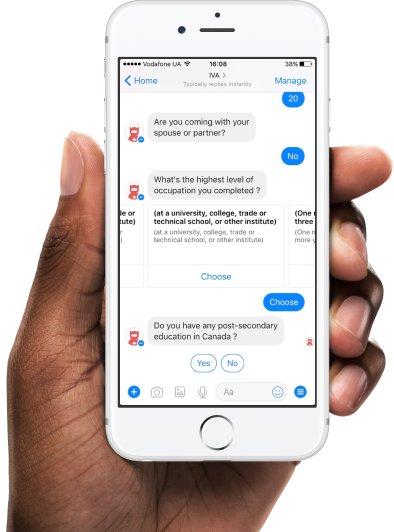
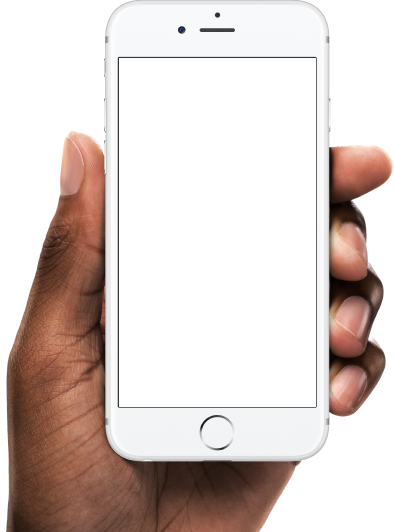
testing mobile bg, updated bg img for video

diff --git a/css/style.css b/css/style.css
@@ -408,13 +408,13 @@ a:active {
 
 .bot-video {
     width: 197px;
-    height: 349px;
+    height: 350px;
     position: absolute;
     top: 50%;
     left: 50%;
     transform: translate(-50%, -50%);
     z-index: 3;
-    margin-top: -34px;
+    margin-top: -33px;
     margin-left: 20px;
 }
 
@@ -547,9 +547,9 @@ a:active {
 
     .slide-3 .iva-description-img .bot-video {
         width: 205px;
-        height: 350px;
-        margin-top: -34px;
-        margin-left: 21px;
+        height: 358px;
+        margin-top: -35px;
+        margin-left: 20px;
     }
 
     .iva-btn.subscribe {
@@ -564,6 +564,15 @@ a:active {
     .iva-btn.subscribe img {
         display: inline-block;
         /*padding: 12px 24px;*/
+    }
+}
+
+@media (max-width: 1025px) {
+    .slide-3 .iva-description-img .bot-video {
+        width: 212px;
+        height: 376px;
+        margin-top: -36px;
+        margin-left: 21px;
     }
 }
 
@@ -632,9 +641,8 @@ a:active {
         padding: 0;
     }
 
-    #wrapper.paraxify {
+    .slide-1.paraxify {
         background-attachment: scroll !important;
-        height: 100vh;
     }
 
     .slide-1 {
@@ -690,7 +698,7 @@ a:active {
     .slide-3 .iva-description-img .bot-video {
         width: 195px;
         height: 350px;
-        margin-left: 21px;
+        margin-left: 20px;
         margin-top: -34px;
     }
 
@@ -840,6 +848,16 @@ a:active {
     .slide-6 .logo-container p {
         max-width: 100%;
         word-wrap: break-word;
+    }
+}
+
+@media (max-width: 350px) {
+    .slide-1 {
+        padding-left: 0;
+        padding-right: 0;
+    }
+    .header:not(.header--clone) .content {
+        padding: 0 15px;
     }
 }
 

diff --git a/about.html b/about.html
@@ -7,13 +7,13 @@
   <link rel="icon" type="image/png" href="img/logo.png">
 
   <style>
-    #wrapper.about-section {
-      background: url("./img/about-bg-min.png") bottom center;
+    .about-section {
+      background: url("./img/about-bg-min.png") center;
     }
   </style>
 </head>
-<body>
-<section id="wrapper" class="about-section paraxify">
+<body class="about-section paraxify">
+<section id="wrapper">
   <div class="slide-cover row">
     <div class="slide-1 paraxify">
       <header class="header">

diff --git a/css/about.css b/css/about.css
@@ -8,3 +8,15 @@
         margin-bottom: 80px;
     }
 }
+
+@media (max-width: 991px) {
+    .slide-1 > .content{
+        display: table-cell;
+        height: 100vh;
+        padding-top: 80px;
+    }
+    .slide-1.paraxify {
+        background-attachment: scroll !important;
+        background: url("../img/about-bg-min.png") center;
+    }
+}
